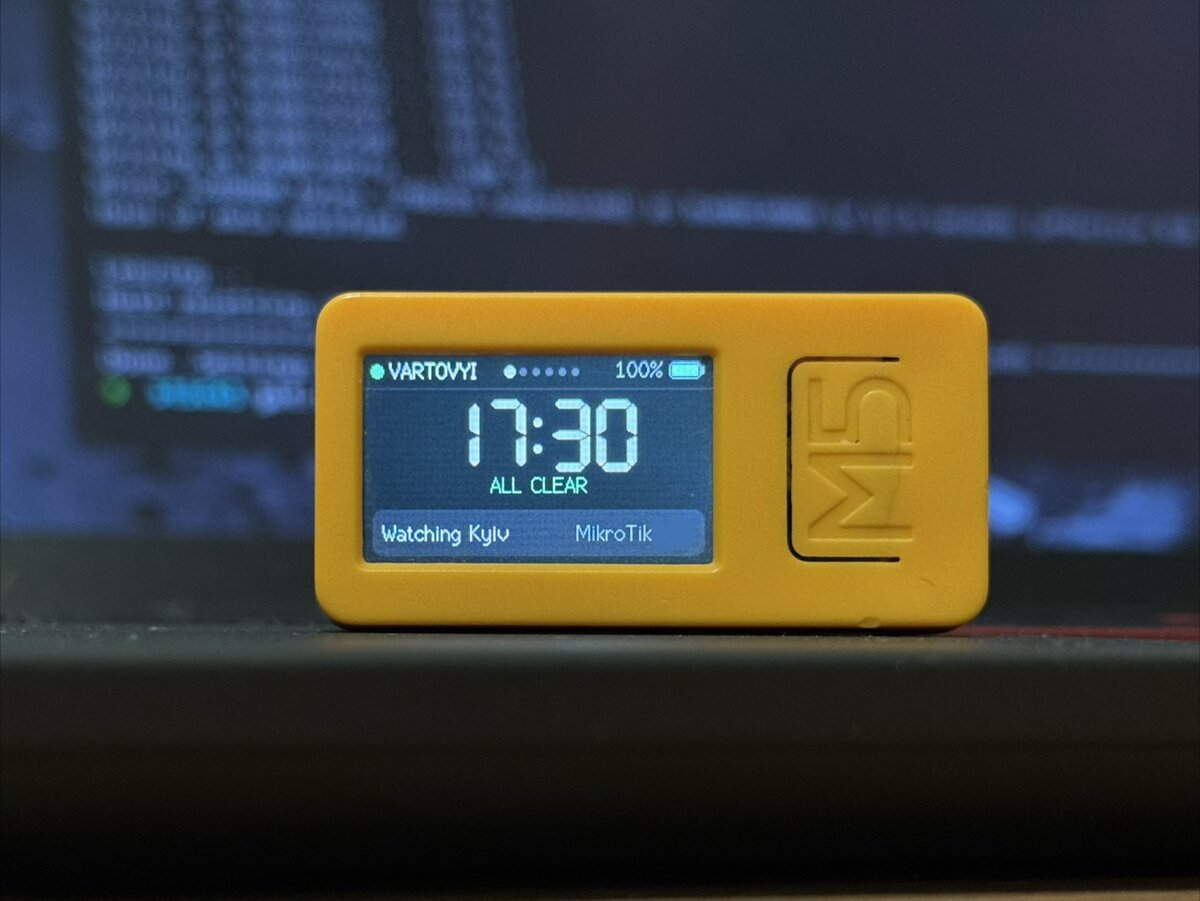
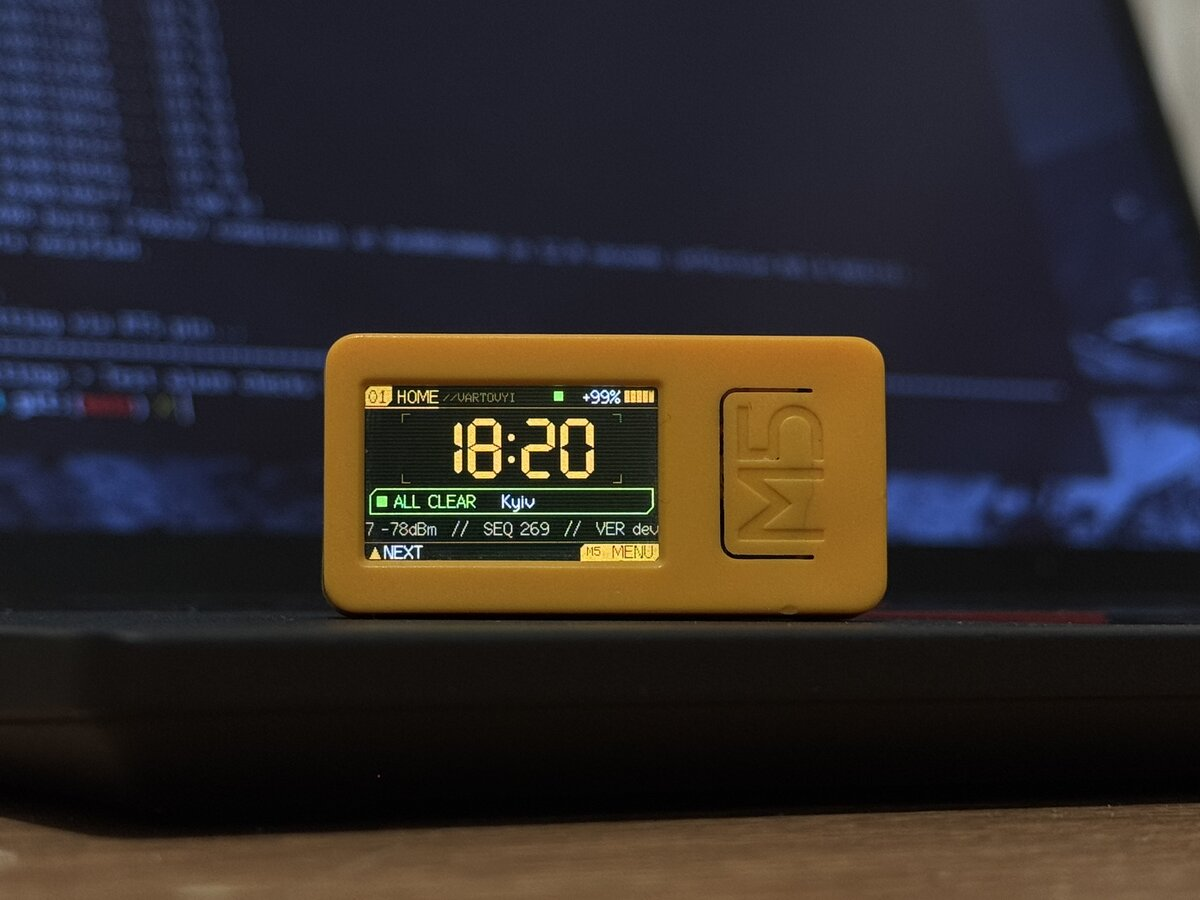
README: rewrite, new photo of the cyberdeck UI

diff --git a/README.md b/README.md
@@ -9,7 +9,7 @@
 [![release](https://img.shields.io/github/v/release/Skerpsh/vartovyi)](https://github.com/Skerpsh/vartovyi/releases/latest)
 [![license](https://img.shields.io/github/license/Skerpsh/vartovyi)](LICENSE)
 
-<img src="docs/stick.jpg" alt="M5StickC Plus2 з прошивкою Vartovyi: годинник, напис ALL CLEAR і рядок Watching Kyiv" width="560">
+<img src="docs/stick.jpg" alt="M5StickC Plus2 з прошивкою Vartovyi: помаранчевий інтерфейс, годинник 18:20, напис ALL CLEAR і район Kyiv" width="560">
 
 **[Прошити стік у браузері →](https://skerpsh.github.io/vartovyi/)**
 
@@ -17,18 +17,28 @@
 
 </div>
 
+> [!IMPORTANT]
+> Vartovyi — додатковий сигнал, а не заміна офіційним оповіщенням. Тримайте увімкненими сирени, «Повітряну тривогу» чи інший офіційний застосунок.
+
 ## Можливості
 
+- Будь-яка область України: стік показує її райони, а ви вибираєте, за якими стежити.
 - Сирена при тривозі, окремий звук для балістики, тихіші сигнали для дронів і відбою.
-- Будь-яка область України: стік показує її райони, а ви вибираєте, які з них стежити.
 - Нічний режим, вимкнення звуку переворотом стіка екраном донизу.
-- Інтерфейс у стилі кібердеку: 6 колірних тем (Orange, Cyan, Magenta, Violet, Blue, Ice), анімації меню й увімкнення. Тема перемикається в Menu > Theme.
-- Історія та статистика тривог, рівень заряду, кілька Wi-Fi мереж за пріоритетом.
+- Інтерфейс у стилі кібердеку: 6 колірних тем, анімації меню, увімкнення й пробудження.
+- Історія та статистика тривог, кілька Wi-Fi мереж за пріоритетом.
 - Оновлення по Wi-Fi з автоматичним відкатом, якщо нова версія не запрацювала.
+
+## Що потрібно
+
+- M5StickC Plus2.
+- USB-C кабель з передачею даних (не лише для заряджання).
+- Wi-Fi на 2,4 ГГц. Мережі 5 ГГц стік не бачить.
+- Для прошивки в браузері: Chrome або Edge на комп'ютері.
 
 ## Прошити стік
 
-**Найпростіше:** відкрийте **https://skerpsh.github.io/vartovyi/** у Chrome або Edge на комп'ютері, підключіть стік USB-кабелем і натисніть «Прошити стік».
+**У браузері:** відкрийте **https://skerpsh.github.io/vartovyi/**, підключіть стік і натисніть «Прошити стік». Коли браузер запропонує стерти пристрій, погодьтеся.
 
 **Через PlatformIO:**
 ```sh
@@ -38,8 +48,12 @@ git clone https://github.com/Skerpsh/vartovyi && cd vartovyi
 
 ## Перший запуск
 
-Стік покаже QR-код мережі **Vartovyi**. Відскануйте його телефоном: відкриється сторінка налаштувань, де можна додати свій Wi-Fi (тільки 2,4 ГГц), вибрати область і її райони, нічний режим, гучність і яскравість.
-Натисніть **Close setup**, і стік підключиться. Пізніше сторінка відкривається з меню: Settings > Phone setup. Область і райони можна змінити й на самому стіку: Settings > Oblast, Settings > Zones.
+1. Стік покаже QR-код мережі **Vartovyi**. Відскануйте його камерою телефона.
+2. Відкриється сторінка налаштувань. Якщо ні, відкрийте в браузері `192.168.4.1`.
+3. Додайте свій Wi-Fi, виберіть область і райони.
+4. Натисніть **Close setup**, і стік підключиться.
+
+Пізніше ця сторінка відкривається з меню стіка: **Menu > Phone setup**.
 
 ## Керування
 
@@ -47,41 +61,80 @@ git clone https://github.com/Skerpsh/vartovyi && cd vartovyi
 
 | Кнопка | Дія |
 |---|---|
-| ▲ бічна зверху | далі: наступний екран або пункт меню |
-| ▼ живлення знизу | назад: на крок вгору в меню, з інших екранів на HOME |
+| ▲ бічна, зверху | далі: наступний екран або пункт меню |
+| ▼ живлення, знизу | назад: на крок угору в меню, з інших екранів на HOME |
 | M5 | меню, вибір |
-| будь-яка | вимкнути сирену. Також можна перевернути стік екраном донизу |
+| будь-яка | вимкнути сирену. Можна й перевернути стік екраном донизу |
 
-Екрани: HOME, MAP (райони області), ACTIVE (активні тривоги), HISTORY, STATS (сьогодні і за тиждень), SYSTEM (мережа, зв'язок, версія).
+**Екрани:** HOME (годинник і стан), MAP (райони області), ACTIVE (тривоги в ваших районах), HISTORY, STATS (сьогодні й за тиждень), SYSTEM (мережа, зв'язок, версія).
+
+**Меню:** Oblast, Zones, Theme, Volume, Brightness, Night mode, Flip to silence, Power, Test alarm, Phone setup, Update firmware.
+
+## Звуки
+
+| Що чути | Що це |
+|---|---|
+| Сирена | червоний рівень або ракети, звучить до вимкнення |
+| Швидкий двотональний сигнал | балістика |
+| Короткі гудки | дрони або жовтий рівень, 6 разів і стихає |
+| Мелодія | відбій |
+| Один тихий гудок раз на 15 хвилин | нагадування, що вимкнена тривога ще триває |
+| Повільний низький сигнал | втрачено зв'язок |
+
+**Нічний режим** (типово 23:00–07:00): ракети й балістика звучать повністю, дрони та втрата зв'язку дають один короткий гудок.
+
+## Якщо щось не так
+
+| На екрані | Що означає |
+|---|---|
+| NO WI-FI | стік не бачить жодної збереженої мережі |
+| SERVER SILENT | Wi-Fi є, але сервер не відповідає |
+| BRIDGE DOWN | сервер відповідає, але дані старші за хвилину |
+| API SILENT | сервер понад 5 хвилин не отримує даних від api.ukrainealarm.com |
+
+Збій зв'язку довше хвилини дає звуковий сигнал, бо тривогу тоді можна пропустити.
 
 ## Оновлення
 
-Нові версії з'являються в [Releases](https://github.com/Skerpsh/vartovyi/releases). На стіку: Settings > Update firmware, там же видно поточну версію.
-Якщо нова прошивка за 5 хвилин не дістане сервер, стік сам повернеться до попередньої.
+Нові версії з'являються в [Releases](https://github.com/Skerpsh/vartovyi/releases). На стіку: **Menu > Update firmware**, поточна версія видна там же й на екрані SYSTEM.
+Якщо нова прошивка за 5 хвилин не дістанеться сервера, стік сам повернеться до попередньої.
 
 ## Як це працює
 
 ```
-api.ukrainealarm.com ──webhook + опитування──► міст (vps/peace_bridge.py) ──Caddy, https──► стік
+api.ukrainealarm.com ──вебхуки + опитування──► міст (vps/peace_bridge.py) ──Caddy, https──► стік
 ```
-Міст отримує підписані вебхуки й раз на 65 с звіряється з повним списком тривог, а результат пише в невеликий текстовий файл для кожної області. Стік читає файл своєї області кожні 3 секунди.
+Міст отримує підписані вебхуки й раз на 65 с звіряється з повним списком тривог. Результат він пише в невеликий текстовий файл для кожної області. Стік кожні 3 секунди читає файл своєї області і сам вирішує, які райони його стосуються. Облікових записів немає, стік нічого не надсилає, лише завантажує цей файл.
 
 ## Свій сервер
 
-Потрібні Linux із systemd, [Caddy](https://caddyserver.com) з сайтом на `*.nip.io` або вашому домені і ключ API від ukrainealarm.com.
+Потрібні Linux із systemd, [Caddy](https://caddyserver.com) і ключ API від [api.ukrainealarm.com](https://api.ukrainealarm.com).
+Скрипт додає маршрути в перший сайт Caddyfile, у назві якого є `nip.io` (наприклад, `1.2.3.4.nip.io`). Сертифікат сайту має бути від Let's Encrypt або ZeroSSL (Caddy так робить сам), інакше стік йому не довірятиме: інші кореневі сертифікати додаються в `src/ca_roots.h`.
+
 ```sh
 mkdir -p /etc/peace-stick && echo 'ВАШ_КЛЮЧ' > /etc/peace-stick/api-key
-echo 'WEBHOOK_URL=https://ваш.сервер/peace-stick/webhook' > /etc/peace-stick/env
+echo 'WEBHOOK_URL=https://1.2.3.4.nip.io/peace-stick/webhook' > /etc/peace-stick/env
 curl -fsSL https://raw.githubusercontent.com/Skerpsh/vartovyi/main/vps/update.sh | sh
 ```
-Скрипт ставить міст, додає маршрути в Caddyfile і вмикає таймер, який щогодини забирає новий реліз (і міст, і прошивку для стіка).
-Прошивку зберіть зі своєю адресою:
+Скрипт ставить міст, додає маршрути й вмикає таймер, який щогодини забирає новий реліз: і міст, і прошивку для стіків.
+Прошивку для свого сервера зберіть з його адресою:
 ```sh
-PLATFORMIO_BUILD_FLAGS="-DALERT_URL='\"https://ваш.сервер/peace-stick\"'" ./flash.sh
+PLATFORMIO_BUILD_FLAGS="-DALERT_URL='\"https://1.2.3.4.nip.io/peace-stick\"'" ./flash.sh
 ```
 
 ## Розробка
 
-- `test/`: тести логіки стіка (`g++`) і моста (`python3 test/test_bridge.py`).
-- `./deploy.sh`: ставить поточну робочу копію моста на сервер, щоб перевірити її до релізу.
-- Реліз: `git tag v1.2.0 && git push --tags`. GitHub Actions збирає прошивку, публікує реліз і оновлює веб-прошивальник, а сервер підхоплює реліз протягом години.
+| Шлях | Що там |
+|---|---|
+| `src/main.cpp` | прошивка: мережа, екрани, кнопки, звук |
+| `src/alert.h` | логіка без залежностей від Arduino: розбір даних, рівні, звуки |
+| `vps/` | міст, скрипти встановлення й оновлення сервера, список регіонів |
+| `web/` | сторінка прошивки в браузері |
+| `test/` | тести логіки стіка (`g++`) і моста (`python3 test/test_bridge.py`) |
+
+- `./deploy.sh` ставить поточну робочу копію моста на сервер, щоб перевірити її до релізу.
+- Реліз: `git tag vX.Y.Z && git push --tags`. GitHub Actions проганяє тести, збирає прошивку, публікує реліз і оновлює сторінку прошивки. Сервер підхоплює реліз протягом години.
+
+## Ліцензія
+
+[MIT](LICENSE)
